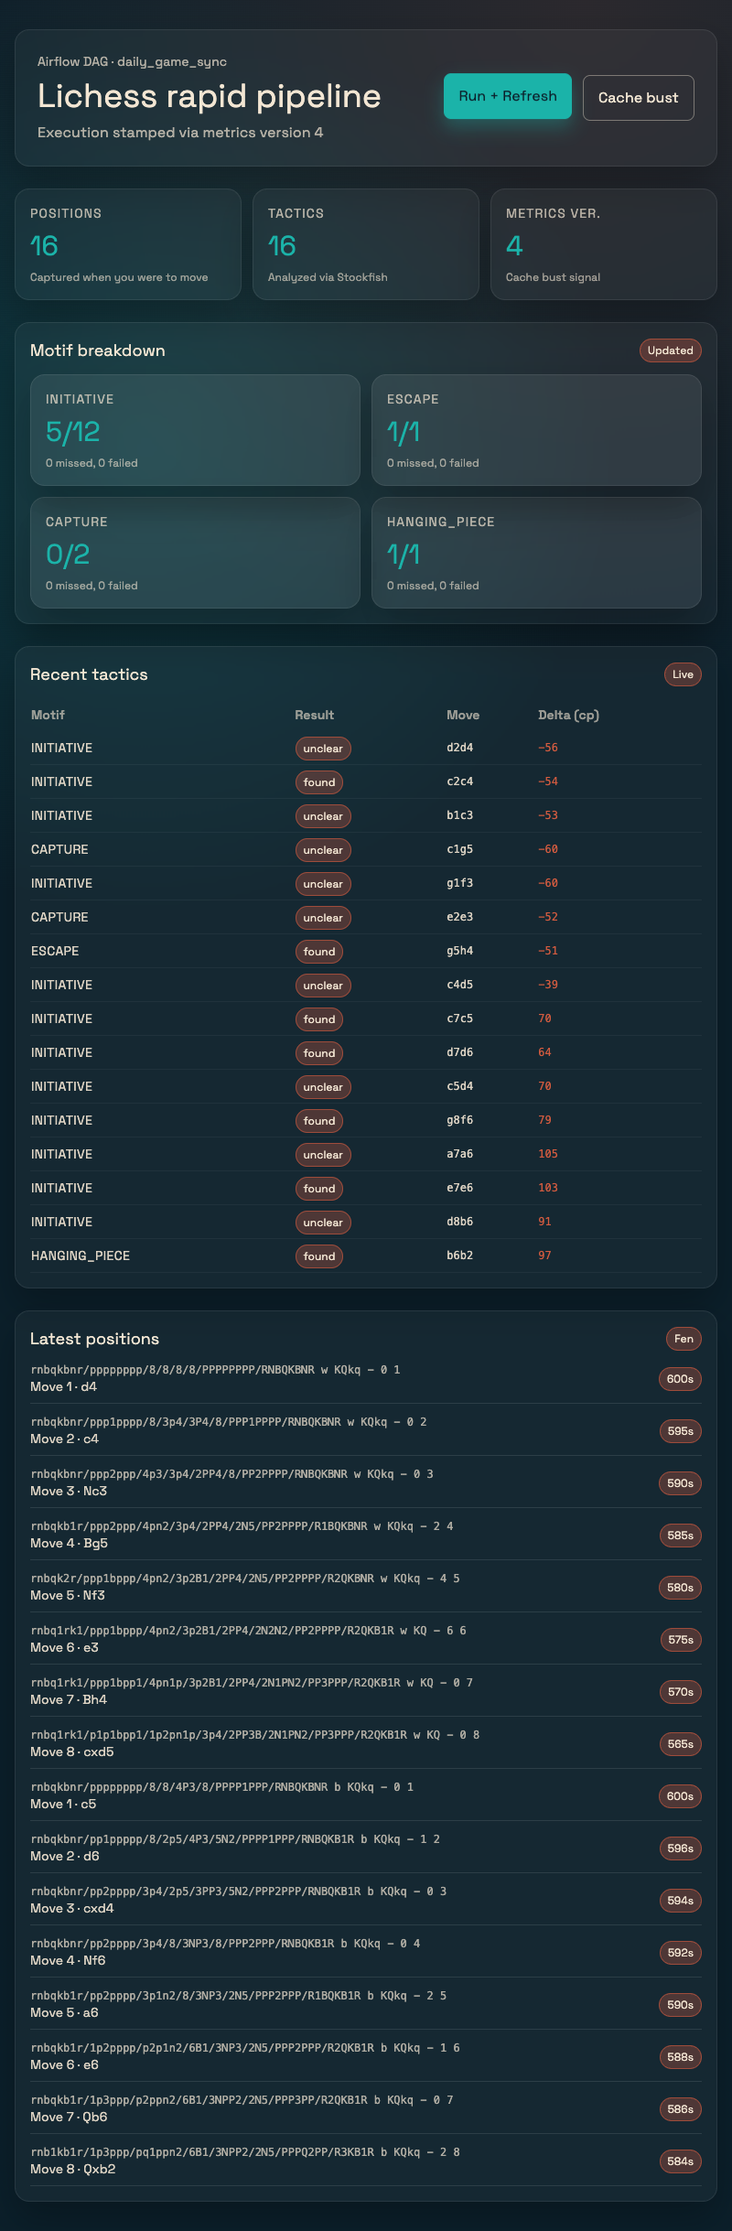
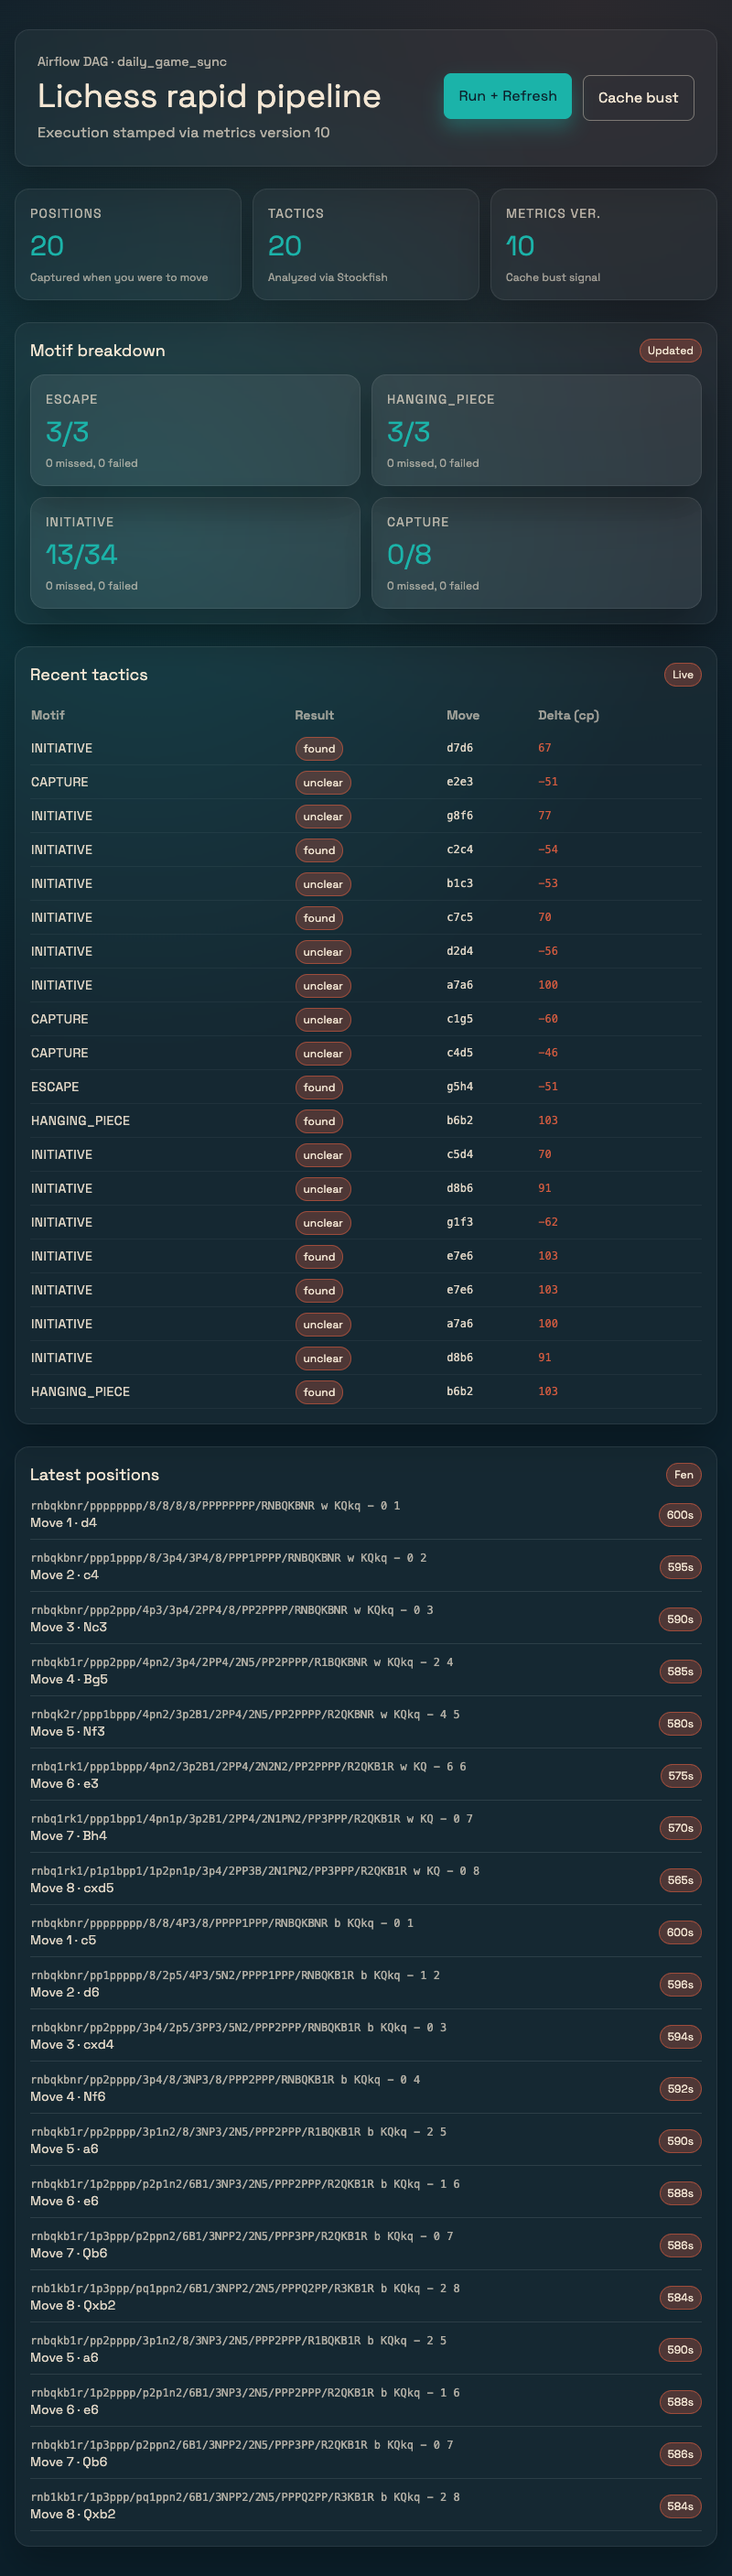
Verify feature 001 pipeline end-to-end
- allow axios to use configurable API base and rebuild dashboard
- have puppeteer start backend+preview for UI verification screenshot
- rerun fixture pipeline, update notes, and capture refreshed dashboard

diff --git a/verification/puppeteer_dashboard.js b/verification/puppeteer_dashboard.js
@@ -4,6 +4,53 @@ const { spawn } = require('child_process');
 const puppeteer = require('puppeteer');
 
 const CLIENT_DIR = path.resolve(__dirname, '..', 'client');
+const ROOT_DIR = path.resolve(__dirname, '..');
+const BACKEND_CMD = path.join(ROOT_DIR, '.venv', 'bin', 'python');
+
+function startBackend() {
+  return new Promise((resolve, reject) => {
+    const proc = spawn(
+      BACKEND_CMD,
+      [
+        '-m',
+        'uvicorn',
+        'tactix.api:app',
+        '--host',
+        '0.0.0.0',
+        '--port',
+        '8000',
+      ],
+      {
+        cwd: ROOT_DIR,
+        env: { ...process.env },
+        stdio: ['ignore', 'pipe', 'pipe'],
+      },
+    );
+
+    const onData = (data) => {
+      const text = data.toString();
+      if (text.includes('Uvicorn running')) {
+        cleanup();
+        resolve(proc);
+      }
+    };
+
+    const onError = (err) => {
+      cleanup();
+      reject(err);
+    };
+
+    function cleanup() {
+      proc.stdout.off('data', onData);
+      proc.stderr.off('data', onData);
+      proc.off('error', onError);
+    }
+
+    proc.stdout.on('data', onData);
+    proc.stderr.on('data', onData);
+    proc.on('error', onError);
+  });
+}
 
 function startPreview() {
   return new Promise((resolve, reject) => {
@@ -38,10 +85,15 @@ function startPreview() {
 }
 
 (async () => {
+  console.log('Starting backend...');
+  const backend = await startBackend();
+  console.log('Starting preview server...');
   const server = await startPreview();
   try {
+    console.log('Launching browser...');
     const browser = await puppeteer.launch({ headless: 'new' });
     const page = await browser.newPage();
+    console.log('Navigating to dashboard...');
     await page.goto('http://localhost:4173/', { waitUntil: 'networkidle0' });
     await page.waitForSelector('h1');
     await page.click('button.button');
@@ -57,5 +109,6 @@ function startPreview() {
     await browser.close();
   } finally {
     server.kill();
+    backend.kill();
   }
 })();

diff --git a/client/src/api.ts b/client/src/api.ts
@@ -39,8 +39,10 @@ export type DashboardPayload = {
   metrics_version: number;
 };
 
+const API_BASE = (import.meta.env.VITE_API_BASE || '').trim();
+
 const client = axios.create({
-  baseURL: '',
+  baseURL: API_BASE || undefined,
 });
 
 export async function fetchDashboard(): Promise<DashboardPayload> {
